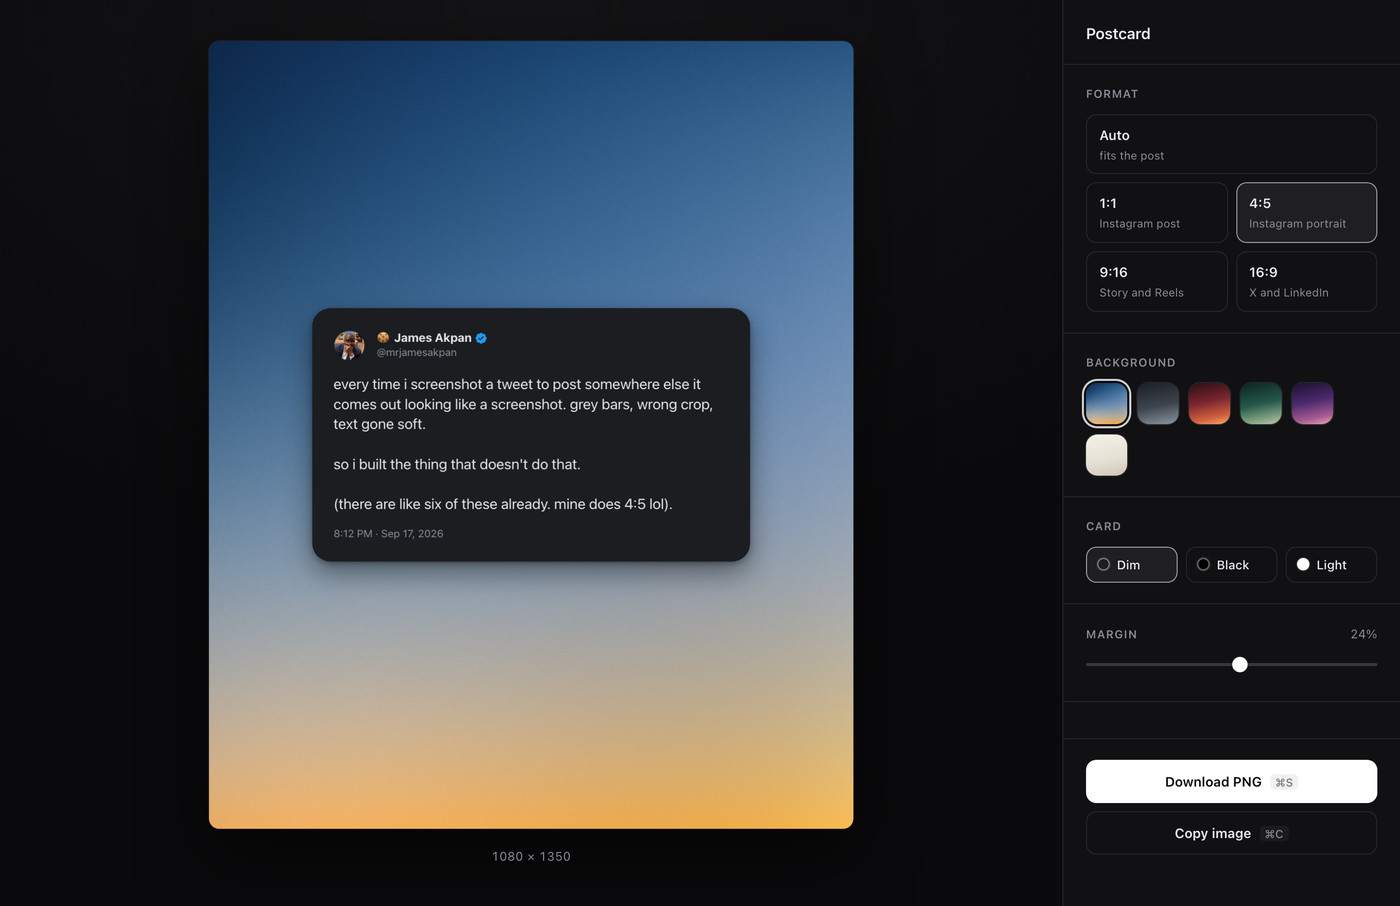
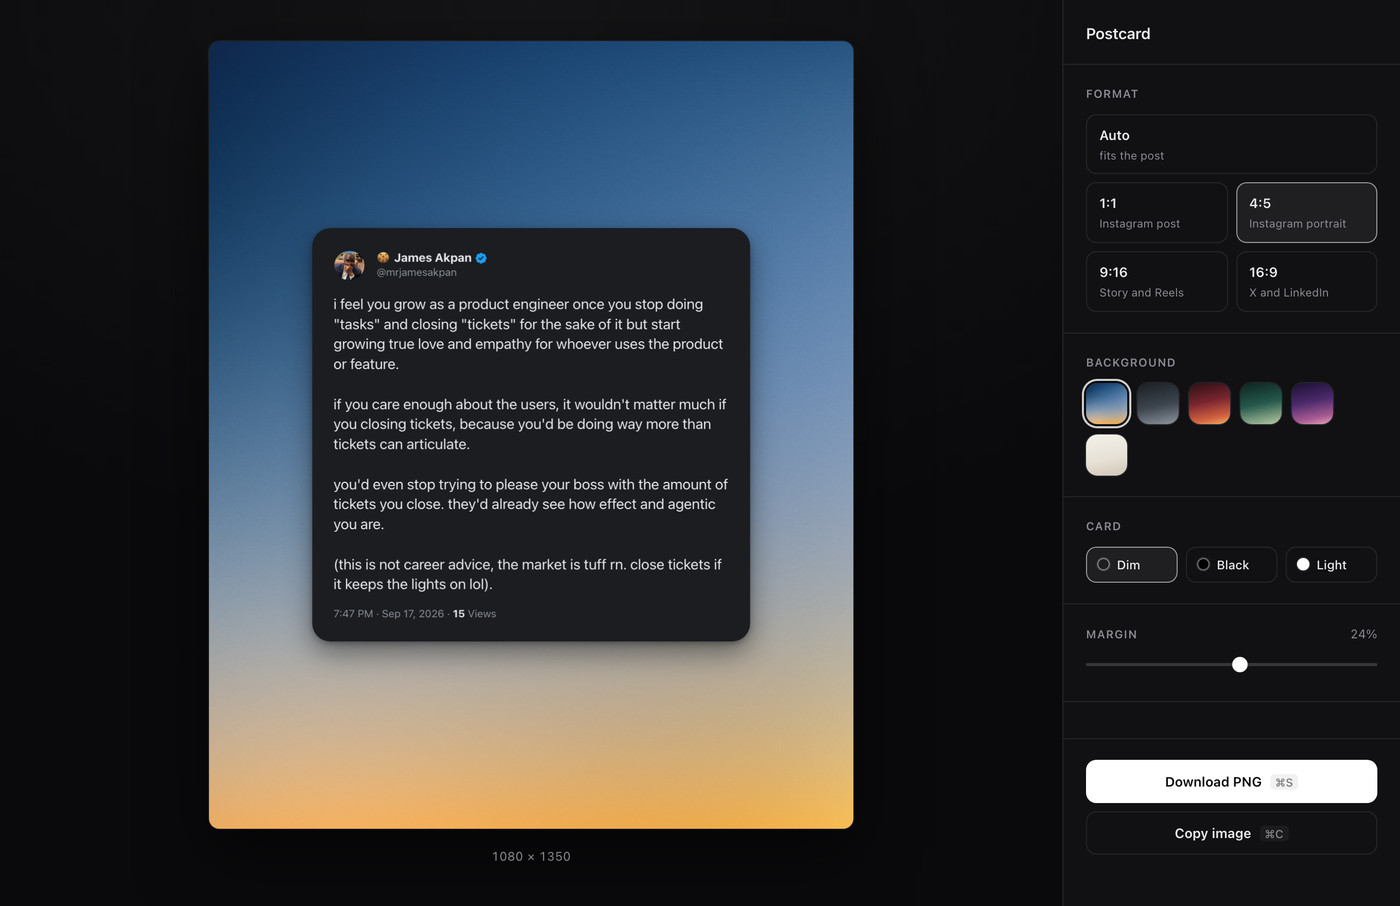
Use a real post in the hero and studio shots
The mock-up read as an ad no matter how it was phrased, because the voice it
was imitating does not write ads. Swapped in the post the samples already use,
so nothing in the repo is invented.

Changed region(s): [[0.215, 0.2472, 0.5529, 0.5872], [0.215, 0.6181, 0.5529, 0.7417]]

diff --git a/README.md b/README.md
@@ -76,8 +76,8 @@ Hit the number exactly and it leaves the file alone.
 ![One post rendered five ways](docs/samples.webp)
 
 Same post, five settings. Dusk at 9:16 and 1:1, Paper with a light card, Slate
-with a black card at 16:9, Plum at 4:5. The 9:16 one came straight out of the
-extension and nothing happened to it afterwards.
+with a black card at 16:9, Plum at 4:5. The 9:16 one is the file I exported by
+hand. Nothing happened to it afterwards.
 
 ---
 
@@ -144,5 +144,5 @@ every link pointing at it. The version lives in the manifest and the tag.
 
 ---
 
-MIT. The post in the samples is real. The one in the hero and the studio shot is
-a mock-up, made with the extension.
+MIT. Every post in these shots is a real one of mine, run through the extension.
+Nothing here is a mock-up.
